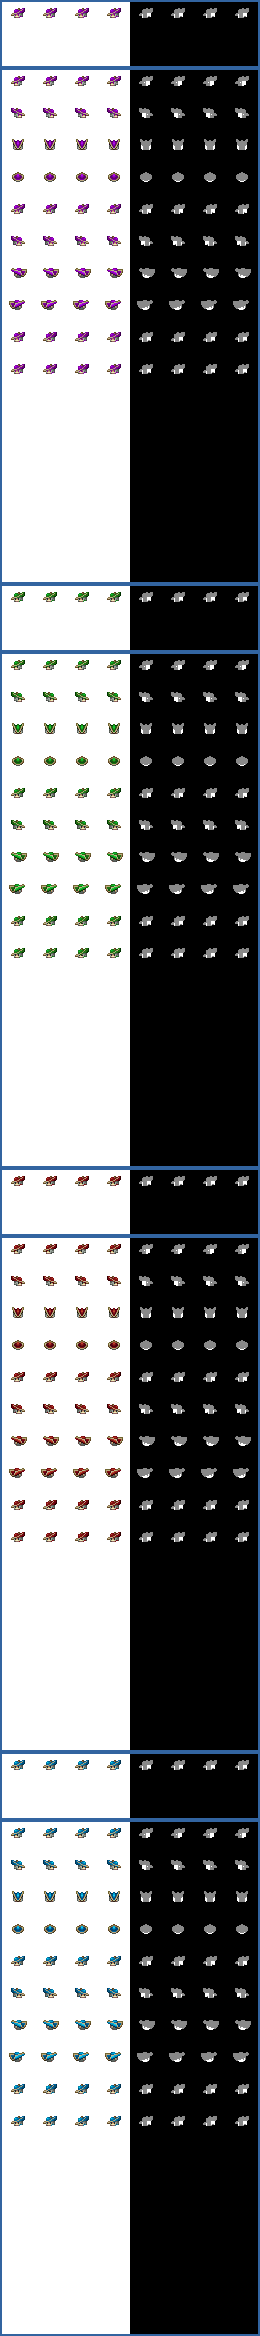
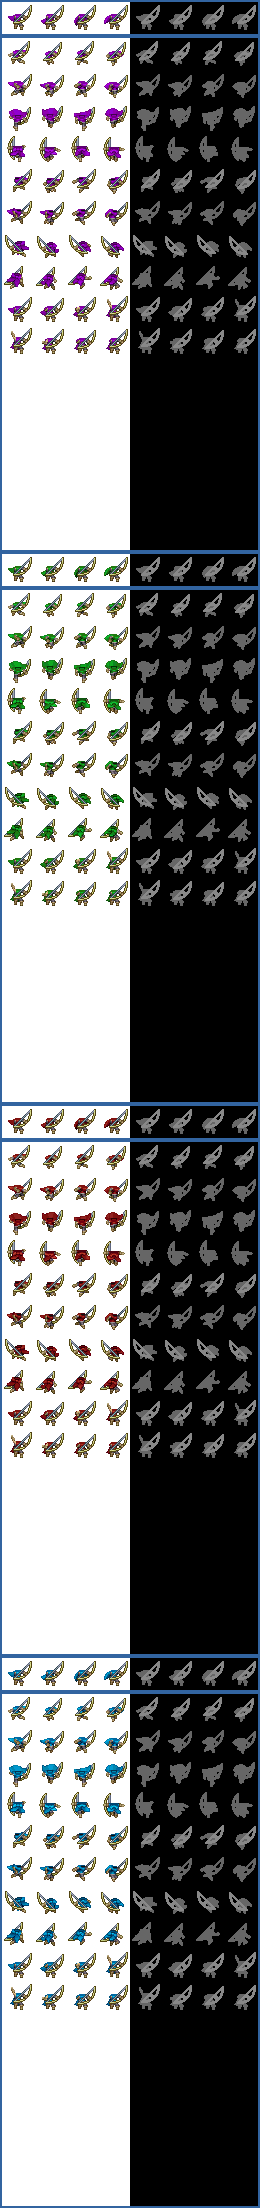
Fixed offsets on berserker-f

diff --git a/splitter.py b/splitter.py
@@ -70,7 +70,7 @@ HEAD_PARAMS = {
         'size': 'large',
         },
     'berserker-f': {
-        'offset': [(0,3),(0,3),(0,3),(0,3),],
+        'offset': [(0,2),(0,2),(0,3),(0,2),],
         'size': 'large',
         },
     'berserker-m': {
@@ -262,6 +262,7 @@ HEAD_PARAMS = {
     'ninja-f': {
         'offset': [(0,2),(0,2),(0,1),(0,1),],
         'size': 'large',
+        'reverse': True,
         },
     'ninja-m': {
         'offset': [(-2,0),(-2,0),(-2,-1),(-2,-1),],
